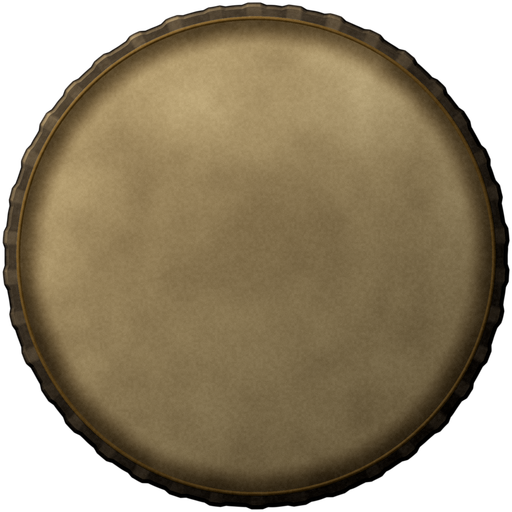
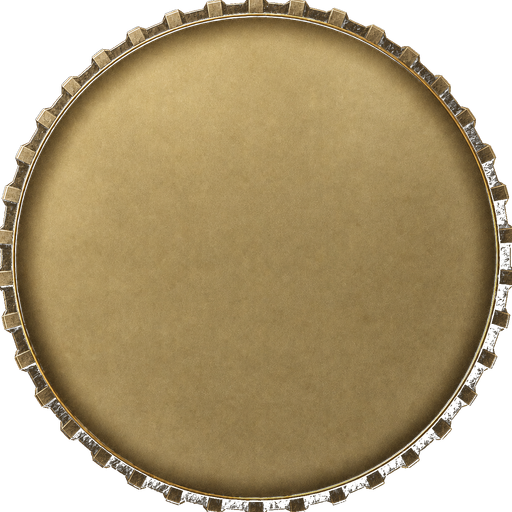
feat(botc): the seat coin is the user's own player_coin art — keyed onto transparency, measured, dead plate derived, marks moved inside its hairline (FT-854)

diff --git a/src/components/Token.vue b/src/components/Token.vue
@@ -119,11 +119,12 @@ const HOVER_DELAY = 170;
 const CX = 75;
 const CY = 75;
 // Where the wheel's decorations sit, measured from the middle of the coin.
-// The bake puts the parchment face out to 0.9215 of the radius and the tooth
-// roots at 0.9855 (the whole border band halved, user call), so 71.5 straddles
-// the collar — dark ground the bone marks read against, and clear of the role
-// art on the face.
-const MARK_R = 71.5;
+// The coin is the USER'S OWN art (design drop, keyed + measured by
+// claude_temp_test/2026-08-18-player-coin.mjs). Its metal ring is thin — the
+// parchment runs out to 0.955 of the radius and the teeth take the rest — so
+// the marks sit just INSIDE the gold hairline rather than in the ring, which
+// is where they fit and where upstream's leaves read from.
+const MARK_R = 67.5;
 const RAD = Math.PI / 180;
 
 /**
@@ -385,10 +386,10 @@ $blood: #970000; // our red, for the one mark that must not be missed
   @mixin team-ring($color) {
     background: radial-gradient(
       circle closest-side,
-      transparent 0 91%,
-      rgba($color, 0.55) 92.5%,
-      rgba($color, 0.55) 95.5%,
-      transparent 97%
+      transparent 0 87.5%,
+      rgba($color, 0.55) 89%,
+      rgba($color, 0.55) 92%,
+      transparent 93.5%
     );
   }
 
